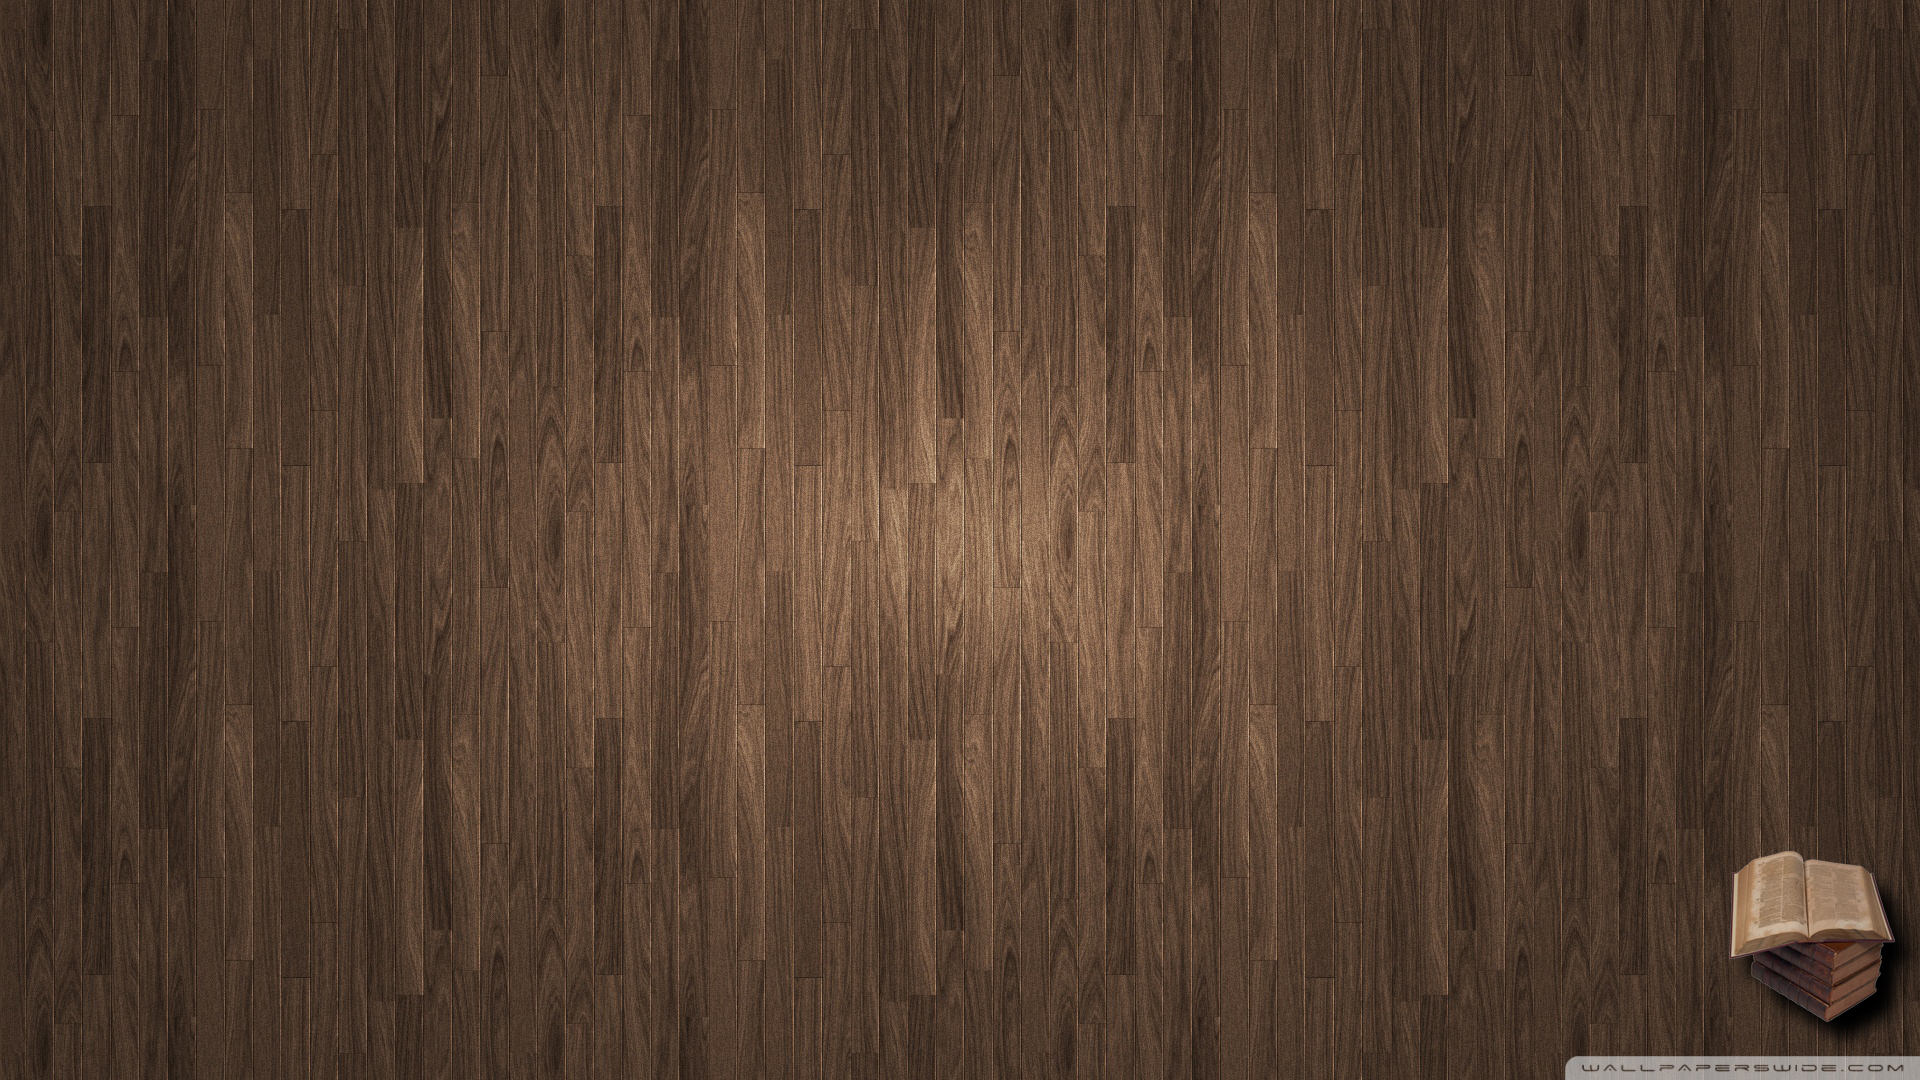
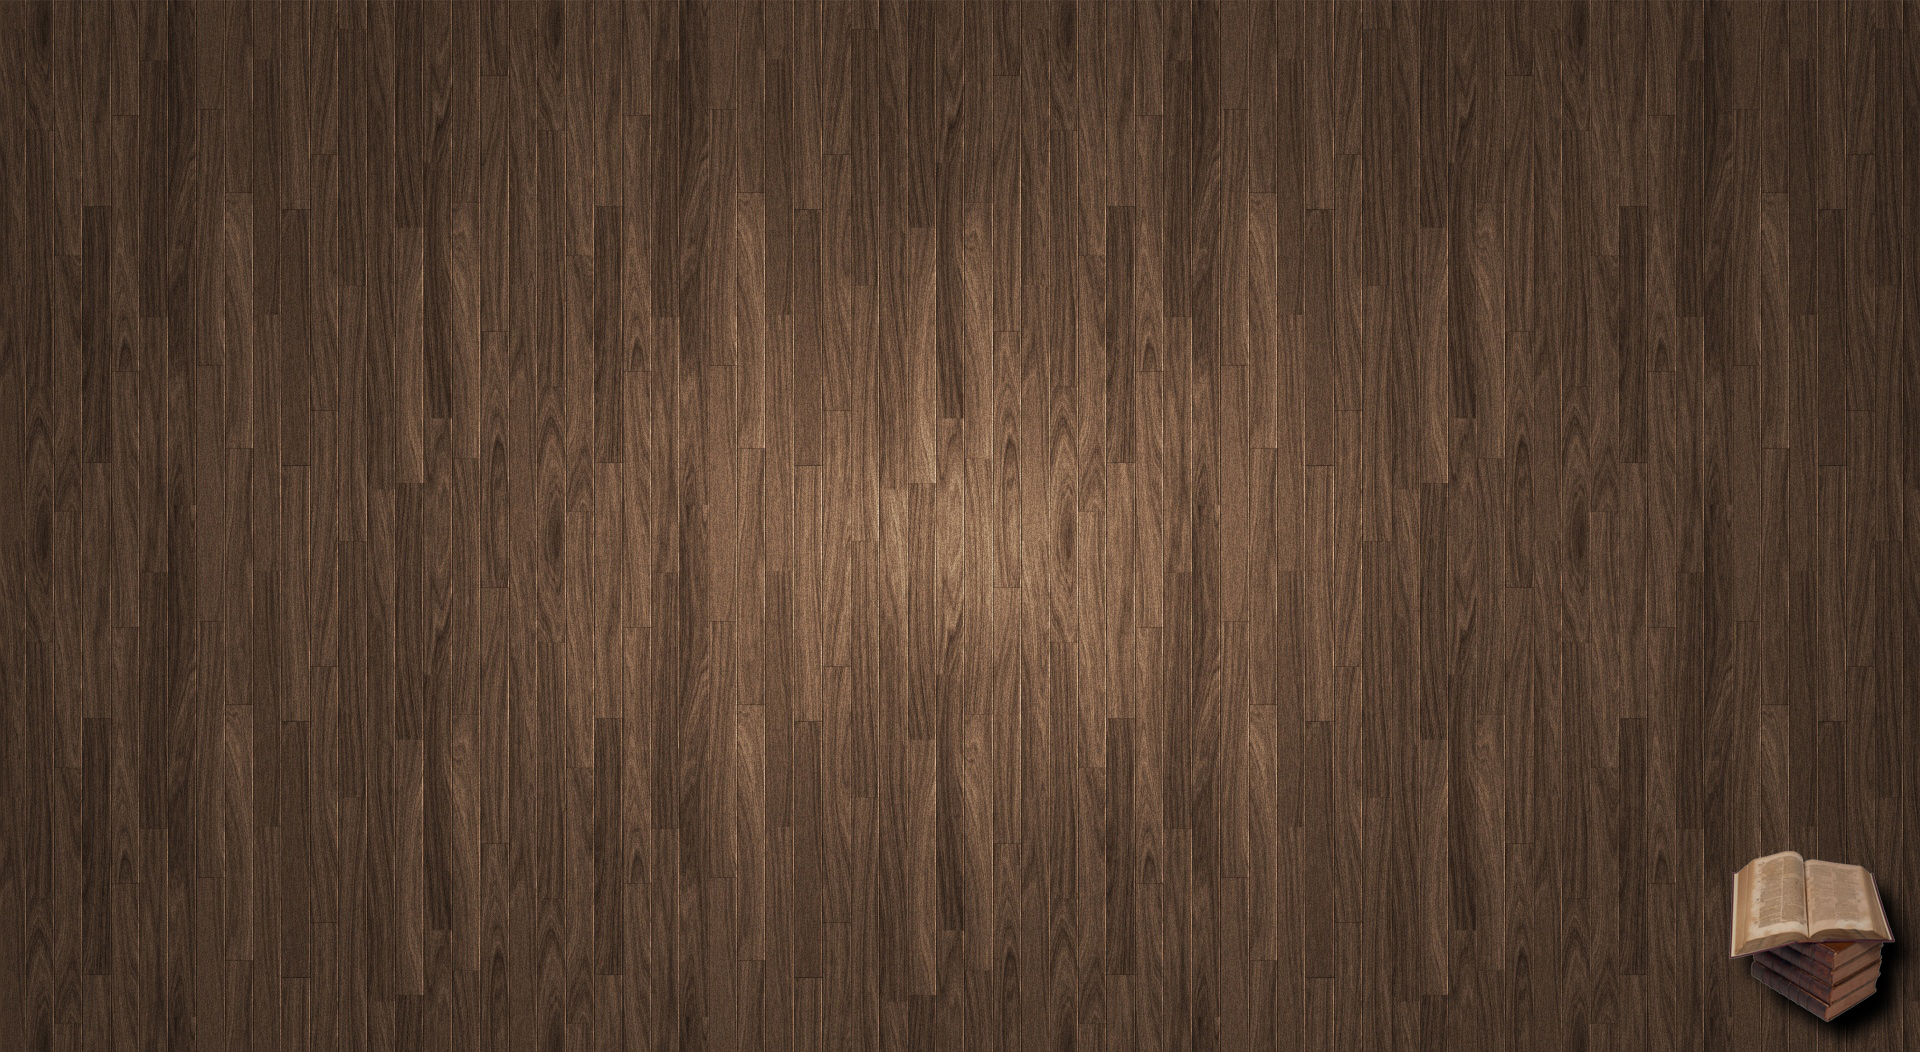
Css smal fixes

diff --git a/index.html b/index.html
@@ -114,9 +114,9 @@
 	<!-- This is report feelfs-->
 					<section class="reportFields showreport">
 						<form class="CheckISBNforReport">
-							<p>Enter the ISBN to check if it exists in the shop.</p>
-							<label for="isbn4"></label>
-							<input type="text" placeholder="Enter ISBN" autocomplete="off" class="isbn22" name="isbn" maxlength="13" id="isbn4">
+
+							<label for="isbn4">Enter the ISBN to check if it exists in the shop.</label>
+							<input type="text" placeholder="Enter ISBN" autocomplete="off" class="isbn22" name="isbn" maxlength="13" id="isbn4" required>
 							<button type="submit">Find ISBN!</button>
 						</form>
 						<form class="getReport">

diff --git a/css/style.css b/css/style.css
@@ -1,7 +1,7 @@
 body {
   line-height:140%;
   position: relative;
-  background: url('../img/woodBooks.jpg') no-repeat center center fixed;
+  background: url('../img/woodBooks.jpg') no-repeat  bottom right fixed;
   /*-moz-background-size: cover;*/
   /*-webkit-background-size: cover;*/
   /*-o-background-size: cover;*/
@@ -209,7 +209,7 @@ h3 {
 
 .CheckISBNforReport *, .getReport * {
   display: block;
-  margin: 5px;
+
 }
 
 .reportButton {
